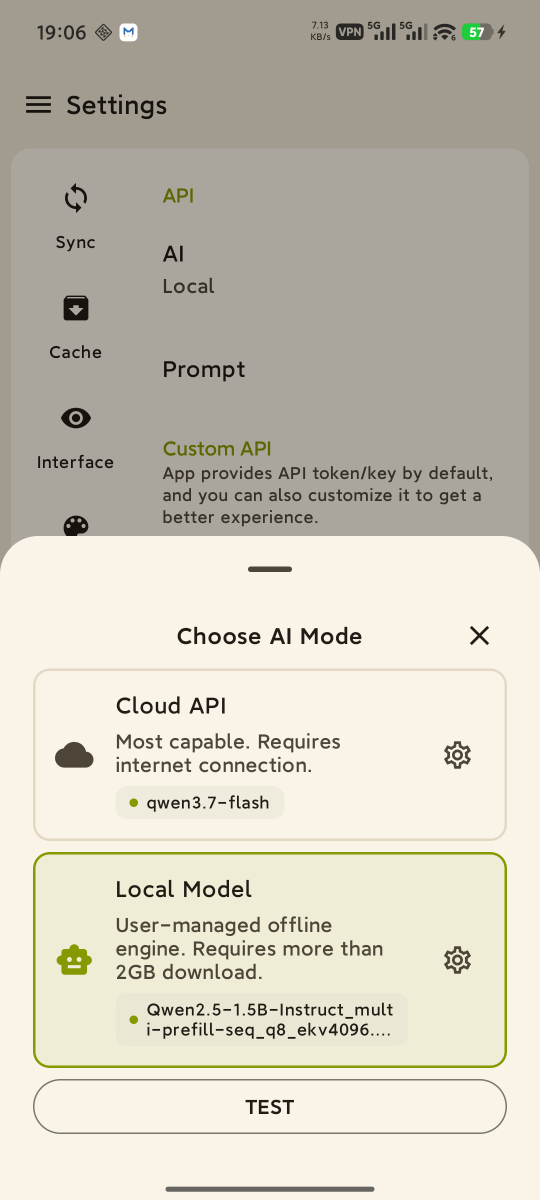
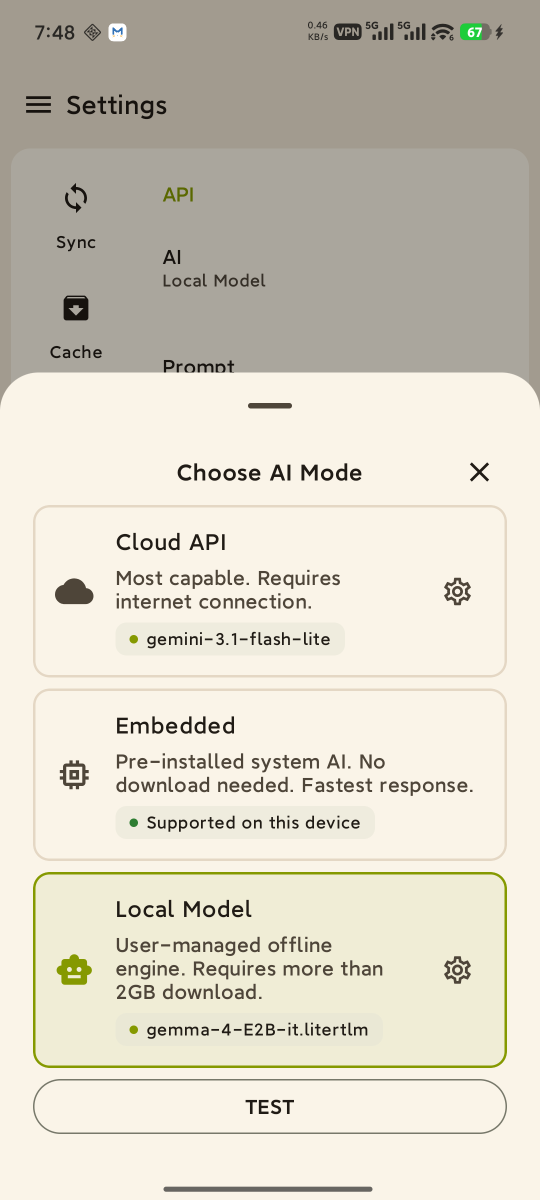
4.12.4

diff --git a/doc/zh/ai_support.md b/doc/zh/ai_support.md
@@ -49,9 +49,10 @@ FeedMe 的 AI 能力可以用于翻译和总结。
 
 <img src="https://github.com/seazon/FeedMe/blob/main/doc/en/imgs/ai_choose_mode.png" width="25%" height="25%" />
 
-AI 有2种类型可选，任意时刻只会使用其中一种：
+AI 有3种类型可选，任意时刻只会使用其中一种：
 
 - `Cloud API`：能力最强，需要联网。
+- `Embedded`：系统预装AI，无需下载，响应最快。【4.12.4新增支持】
 - `本地模型`：用户自己管理的离线引擎，需要下载大于 2GB 的模型文件。
 
 选定其中一种后，可以在下方点击测试按钮验证是否可以正常使用。

diff --git a/doc/zh/README.md b/doc/zh/README.md
@@ -17,9 +17,9 @@ FeedMe是一个RSS阅读器，支持以下RSS服务：
 ## 版本和下载:
 - 谷歌商店 https://play.google.com/store/apps/details?id=com.seazon.feedme
   - 正式: 4.11.2
-  - 测试: 4.12.3 (加入beta测试: https://play.google.com/apps/testing/com.seazon.feedme)
+  - 测试: 4.12.4 (加入beta测试: https://play.google.com/apps/testing/com.seazon.feedme)
 - Github https://github.com/seazon/FeedMe/releases
-  - 4.12.3
+  - 4.12.4
 
 ## 联系:
 - （推荐）https://github.com/seazon/FeedMe/issues

diff --git a/README.md b/README.md
@@ -17,9 +17,9 @@ This is the documentation of FeedMe.
 ## Version & Download:
 - Google Play https://play.google.com/store/apps/details?id=com.seazon.feedme
   - release: 4.11.2
-  - beta: 4.12.3 (join beta test: https://play.google.com/apps/testing/com.seazon.feedme)
+  - beta: 4.12.4 (join beta test: https://play.google.com/apps/testing/com.seazon.feedme)
 - Github https://github.com/seazon/FeedMe/releases
-  - 4.12.3
+  - 4.12.4
 
 ## Contact:
 - (Recommendation) https://github.com/seazon/FeedMe/issues

diff --git a/doc/en/patches.md b/doc/en/patches.md
@@ -1,3 +1,9 @@
+### 4.12.4
+###### 2026-10-18
+- [new] `Settings`-`Service`-`AI` adds `Embedded`, supports Android AICore, no need to download model, supports device viewing: https://developers.google.com/ml-kit/genai#prompt-device
+- [fix] Fixed the problem that the menu of the picture browsing page is not displayed. https://github.com/seazon/FeedMe/issues/249
+- [other] Some crash fixes.
+
 ### 4.12.3
 ###### 2026-10-12
 - [fix] Fixed crash on opening image block dialog.

diff --git a/doc/en/ai_support.md b/doc/en/ai_support.md
@@ -52,6 +52,7 @@ Find `AI` in `Settings` - `Service`
 There are two AI types to choose from, and only one is used at any time:
 
 - `Cloud API`: The most capable, requires a network connection.
+- `Embedded`：Pre-installed system AI. No download needed. Fastest response. [Added in 4.12.4]
 - `Local Model`: A user-managed offline engine, requires downloading model files larger than 2GB.
 
 After choosing one, you can use the test button below to verify that it works.

diff --git a/doc/zh/patches.md b/doc/zh/patches.md
@@ -1,3 +1,9 @@
+### 4.12.4
+###### 2026-10-18
+- [新增] `设置`-`服务`-`AI`新增`Embedded`，支持安卓AICore，无需下载模型，支持设备查看：https://developers.google.com/ml-kit/genai#prompt-device
+- [修复] 修复图片浏览界面菜单不显示的问题。https://github.com/seazon/FeedMe/issues/249
+- [其他] 一些崩溃问题修复。
+
 ### 4.12.3
 ###### 2026-10-12
 - [修复] 修复打开图片拦截对话框时导致的崩溃问题。
